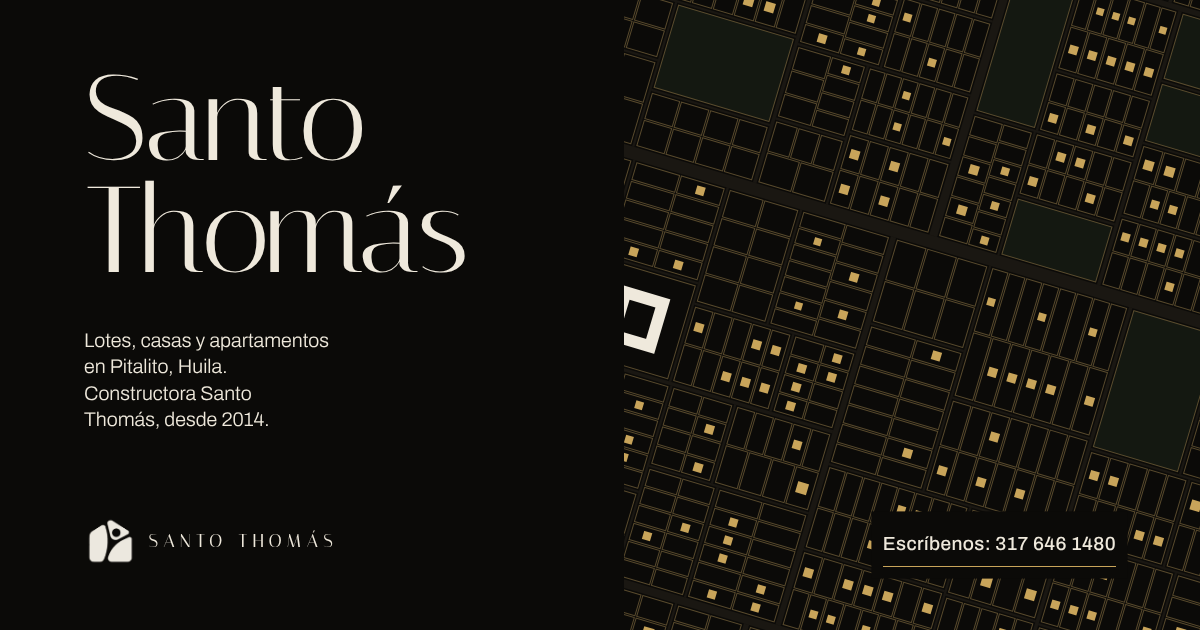
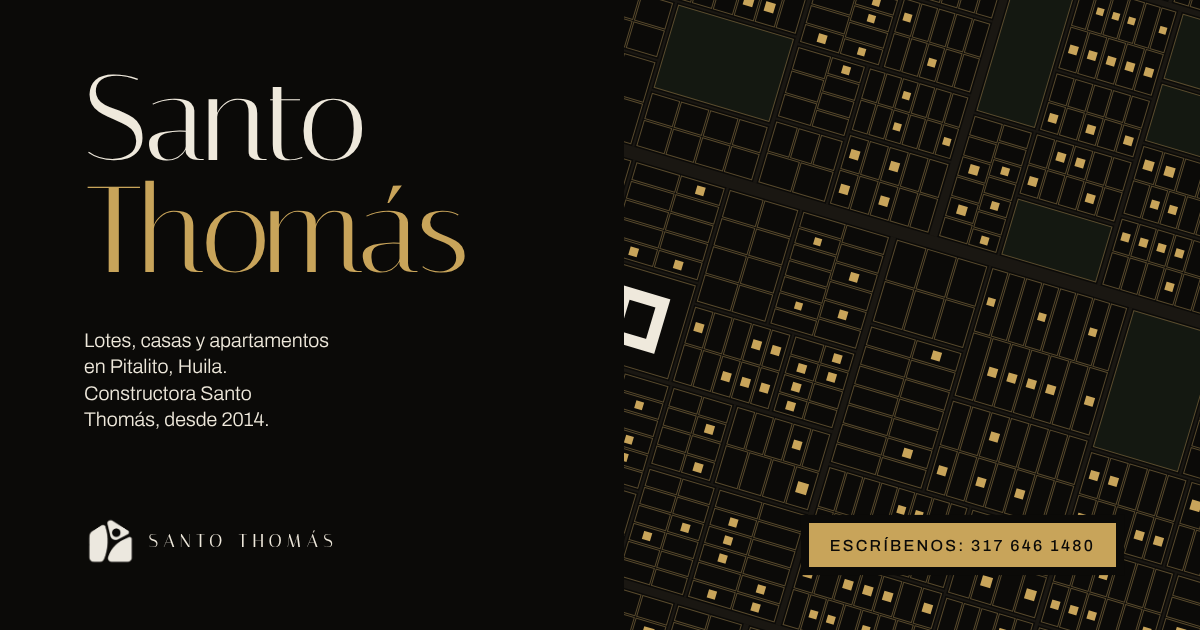
Santo Thomás page: 60-30-10 palette with gold as hero colour
Claude-Session: https://claude.ai/code/session_01EuNx7qHGaqCun31qjyEdxN

Changed region(s): [[0.0925, 0.2714, 0.4008, 0.4524], [0.6475, 0.8143, 0.9558, 0.9048]]

diff --git a/santo-thomas/index.html b/santo-thomas/index.html
@@ -80,6 +80,10 @@ em{font-style:normal;color:var(--oro)}
 .accion:hover::before,.accion:focus-visible::before{width:84px}
 .accion:hover{color:var(--oro)}
 .accion:active::before{width:96px}
+.accion.oro{background:var(--oro);color:var(--negro);padding:0 28px;min-height:54px;gap:0;transition:background .3s,transform .15s}
+.accion.oro::before{display:none}
+.accion.oro:hover{background:#d8b871;color:var(--negro)}
+.accion.oro:active{transform:translateY(2px)}
 .enlace{text-decoration:underline;text-decoration-color:var(--bronce);text-decoration-thickness:1px;text-underline-offset:5px;transition:color .25s}
 .enlace:hover{color:var(--oro)}
 
@@ -106,12 +110,13 @@ em{font-style:normal;color:var(--oro)}
 .barra ul{display:flex;gap:clamp(18px,3vw,48px)}
 .barra nav a{text-decoration:none;font-size:12px;font-weight:500;letter-spacing:.22em;text-transform:uppercase;padding:12px 0;display:block;transition:color .25s}
 .barra nav a:hover{color:var(--oro)}
-@media(max-width:899px){.barra{flex-wrap:wrap;gap:6px var(--m);padding-block:20px}.barra nav{width:100%}.barra ul{justify-content:space-between}.barra nav a{font-size:11px;letter-spacing:.16em}.barra .wa{display:none}}
+.barra .wa a{color:var(--oro)}
+@media(max-width:899px){.barra{flex-wrap:wrap;gap:6px var(--m);padding-block:20px}.barra nav{width:100%}.barra ul{justify-content:space-between}.barra nav a{font-size:11px;letter-spacing:.16em}.barra .wa,.barra .ocu{display:none}}
 
 /* Portada: dos palabras enormes que pisan las fotos */
 .portada{position:relative;min-height:max(100svh,700px);display:grid;grid-template-columns:repeat(12,minmax(0,1fr));grid-template-rows:1fr auto;column-gap:var(--m);padding:120px var(--m) clamp(28px,5vh,56px)}
-.portada h1{grid-column:1/-1;grid-row:1;align-self:center;position:relative;z-index:2;font-size:clamp(72px,15.4vw,270px);line-height:.9;letter-spacing:-.02em;pointer-events:none;mix-blend-mode:difference}
-.portada h1 .l2{padding-left:16vw}
+.portada h1{grid-column:1/-1;grid-row:1;align-self:center;position:relative;z-index:2;font-size:clamp(72px,15.4vw,270px);line-height:.9;letter-spacing:-.02em;pointer-events:none}
+.portada h1 .l2{padding-left:16vw;color:var(--oro)}
 /* El isotipo vive en la sangría de la segunda línea; el vidrio lo revela al abrir */
 .portada .sello{grid-column:1/4;grid-row:1;align-self:center;position:relative;z-index:1;width:21vw;margin-left:-3.4vw;aspect-ratio:1;transform:translateY(7.6vw);cursor:pointer}
 .portada .sello img{position:absolute;inset:0;margin:auto;width:42%;height:auto}
@@ -196,7 +201,7 @@ em{font-style:normal;color:var(--oro)}
 .laminas .cab{display:flex;justify-content:space-between;align-items:end;gap:24px;padding-bottom:28px}
 .lamina{display:grid;gap:28px;padding-block:44px}
 .lamina .foto{aspect-ratio:4/3}
-.lamina .num{font-family:var(--serif);font-size:clamp(90px,15vw,250px);line-height:.8;letter-spacing:-.02em;color:var(--bronce)}
+.lamina .num{font-family:var(--serif);font-size:clamp(90px,15vw,250px);line-height:.8;letter-spacing:-.02em;color:var(--oro)}
 .lamina .txt{display:grid;gap:24px;justify-items:start;align-content:end}
 .lamina h3{font-size:clamp(40px,5.2vw,88px)}
 .lamina .txt p:not(.decl){max-width:40ch}
@@ -245,7 +250,7 @@ em{font-style:normal;color:var(--oro)}
 .opciones label::after{content:"";width:8px;height:8px;border-radius:50%;background:var(--oro);opacity:0;transform:scale(.3);transition:opacity .3s,transform .5s var(--salir);flex:none;align-self:center}
 .opciones label:hover{color:var(--marfil)}
 .opciones input{position:absolute;opacity:0;pointer-events:none}
-.opciones label:has(input:checked){color:var(--marfil);padding-left:18px}
+.opciones label:has(input:checked){color:var(--oro);padding-left:18px}
 .opciones label:has(input:checked)::after{opacity:1;transform:none}
 .opciones label:has(input:focus-visible){outline:1px solid var(--oro);outline-offset:4px}
 .plano{position:relative;aspect-ratio:4/3}
@@ -259,8 +264,9 @@ em{font-style:normal;color:var(--oro)}
 .empresa .txt{display:grid;gap:28px;justify-items:start;align-content:start}
 .empresa .foto{aspect-ratio:4/5;background:var(--marfil-2)}
 @media(min-width:900px){.empresa{grid-template-columns:repeat(12,minmax(0,1fr));column-gap:var(--m)}.empresa .txt{grid-column:1/8}.empresa .foto{grid-column:9/13;margin-top:10vw}}
-.cifras{display:grid;gap:28px;padding-top:clamp(56px,8vw,120px)}
-.cifras div{display:grid;gap:10px;padding-top:22px;border-top:1px solid rgba(11,10,8,.2)}
+.cifras{display:grid;gap:28px;background:var(--oro);color:var(--negro);margin:clamp(56px,8vw,120px) calc(var(--m)*-1) calc(var(--seccion)*-1);padding:clamp(48px,6vw,96px) var(--m)}
+.cifras .rot{color:rgba(11,10,8,.72)}
+.cifras div{display:grid;gap:10px;padding-top:22px;border-top:1px solid rgba(11,10,8,.35)}
 .cifras b{font-family:var(--serif);font-weight:400;font-size:clamp(64px,9vw,150px);line-height:.86;letter-spacing:-.01em;font-variant-numeric:lining-nums}
 @media(min-width:700px){.cifras{grid-template-columns:repeat(3,minmax(0,1fr));column-gap:var(--m)}}
 .preg{display:grid;gap:clamp(28px,4vw,64px)}
@@ -275,16 +281,22 @@ em{font-style:normal;color:var(--oro)}
 .preg details p{padding:0 0 24px;max-width:52ch}
 
 /* Cierre */
-.cierre{padding-top:var(--seccion);overflow:hidden}
+.cierre{overflow:hidden}
+.cierre .campo{background:var(--oro);color:var(--negro);padding-top:clamp(72px,10vw,150px)}
+.cierre .campo .rot{color:rgba(11,10,8,.72)}
+.cierre .campo .enlace{text-decoration-color:rgba(11,10,8,.5)}
+.cierre .campo .enlace:hover{color:var(--negro);text-decoration-color:var(--negro)}
+.cierre .campo .accion.oro{background:var(--negro);color:var(--marfil)}
+.cierre .campo .accion.oro:hover{background:#1c1914;color:var(--marfil)}
 .cierre .datos{display:grid;gap:clamp(32px,5vw,80px);padding-bottom:clamp(64px,9vw,140px)}
 @media(min-width:900px){.cierre .datos{grid-template-columns:repeat(12,minmax(0,1fr));column-gap:var(--m);align-items:end}.cierre .datos > div{grid-column:1/8}.cierre address{grid-column:9/13}}
-.cierre .tel{font-family:var(--serif);font-size:clamp(48px,8vw,132px);letter-spacing:0;line-height:.9;text-decoration:none;display:inline-block;margin-block:22px 30px;transition:color .25s}
-.cierre .tel:hover{color:var(--oro)}
+.cierre .tel{font-family:var(--serif);font-size:clamp(48px,8vw,132px);letter-spacing:0;color:var(--negro);line-height:.9;text-decoration:none;display:inline-block;margin-block:22px 30px;transition:color .25s}
+.cierre .tel:hover{color:#3a2f17}
 .cierre address{font-style:normal;display:grid;gap:16px;justify-items:start}
-.cierre .firma{font-family:var(--serif);font-size:15vw;line-height:.86;letter-spacing:-.015em;white-space:nowrap;text-align:center;color:var(--carbon-2);padding-bottom:.06em;user-select:none}
+.cierre .firma{padding-top:clamp(48px,7vw,100px);font-family:var(--serif);font-size:15vw;line-height:.86;letter-spacing:-.015em;white-space:nowrap;text-align:center;color:var(--carbon-2);padding-bottom:.06em;user-select:none}
 .cierre .pie{padding:22px var(--m);border-top:1px solid var(--linea);display:flex;flex-wrap:wrap;gap:8px 24px;justify-content:space-between}
 
-.flota{position:fixed;left:0;right:0;bottom:0;z-index:14;display:none;justify-content:center;padding:14px var(--m) calc(14px + env(safe-area-inset-bottom));background:var(--negro);border-top:1px solid var(--linea);text-decoration:none;font-size:11px;font-weight:500;letter-spacing:.24em;text-transform:uppercase}
+.flota{position:fixed;left:0;right:0;bottom:0;z-index:14;display:none;justify-content:center;padding:14px var(--m) calc(14px + env(safe-area-inset-bottom));background:var(--oro);color:var(--negro);text-decoration:none;font-size:11px;font-weight:600;letter-spacing:.24em;text-transform:uppercase}
 @media(max-width:899px){.flota{display:flex}body{padding-bottom:52px}}
 </style>
 <script>document.documentElement.classList.add('js')</script>
@@ -301,7 +313,7 @@ em{font-style:normal;color:var(--oro)}
       <li><a href="#empresa">Historia</a></li>
       <li><a href="#ubicacion">Ubicación</a></li>
       <li><a href="#proyectos">Proyectos</a></li>
-      <li class="wa"><a href="#obra">Obra</a></li>
+      <li class="ocu"><a href="#obra">Obra</a></li>
       <li><a href="#contacto">Contacto</a></li>
       <li class="wa"><a href="https://wa.me/573176461480?text=Hola%2C%20quiero%20informaci%C3%B3n%20sobre%20los%20proyectos%20de%20Constructora%20Santo%20Thom%C3%A1s.">WhatsApp</a></li>
     </ul>
@@ -319,7 +331,7 @@ em{font-style:normal;color:var(--oro)}
   <div class="pie">
     <div class="apoyo">
       <p data-sube style="--i:4">Lotes, casas y apartamentos en Pitalito. Constructora Santo Thomás urbaniza y construye en el sur del Huila desde 2014.</p>
-      <a class="accion" data-sube style="--i:5" href="#proyectos">Ver los proyectos</a>
+      <a class="accion oro" data-sube style="--i:5" href="#proyectos">Ver los proyectos</a>
     </div>
     <p class="rot coord" data-sube style="--i:5">Pitalito, Huila<br><b>Valle de Laboyos</b></p>
   </div>
@@ -391,7 +403,7 @@ em{font-style:normal;color:var(--oro)}
             <h3>Santo Thomás <em>Urbanismo</em></h3>
             <p>Lotes residenciales y comerciales en Pitalito, con vías, conexión a servicios públicos y zonas verdes.</p>
             <dl class="ficha"><dt>Tipo</dt><dd>Lotes residenciales y comerciales</dd><dt>Lugar</dt><dd>Pitalito, Huila</dd></dl>
-            <a class="accion" href="https://wa.me/573176461480?text=Hola%2C%20quiero%20conocer%20los%20lotes%20disponibles%20en%20Santo%20Thom%C3%A1s%20Urbanismo.">Pedir áreas y precios</a>
+            <a class="accion oro" href="https://wa.me/573176461480?text=Hola%2C%20quiero%20conocer%20los%20lotes%20disponibles%20en%20Santo%20Thom%C3%A1s%20Urbanismo.">Pedir áreas y precios</a>
           </div>
         </div>
       </article>
@@ -404,7 +416,7 @@ em{font-style:normal;color:var(--oro)}
             <h3>Torre <em>Santo Thomás</em></h3>
             <p>Apartamentos sobre una plataforma de locales comerciales. Las imágenes son renders: muestran el diseño, no la obra terminada.</p>
             <dl class="ficha"><dt>Tipo</dt><dd>Apartamentos y locales</dd><dt>Lugar</dt><dd>Pitalito, Huila</dd></dl>
-            <a class="accion" href="https://wa.me/573176461480?text=Hola%2C%20quiero%20informaci%C3%B3n%20sobre%20la%20Torre%20Santo%20Thom%C3%A1s.">Pedir planos de la torre</a>
+            <a class="accion oro" href="https://wa.me/573176461480?text=Hola%2C%20quiero%20informaci%C3%B3n%20sobre%20la%20Torre%20Santo%20Thom%C3%A1s.">Pedir planos de la torre</a>
           </div>
         </div>
       </article>
@@ -417,7 +429,7 @@ em{font-style:normal;color:var(--oro)}
             <h3>Casas <em>y edificios</em></h3>
             <p>Casas de uno y dos pisos en Pitalito, y edificios de apartamentos con locales en el primer piso.</p>
             <dl class="ficha"><dt>Tipo</dt><dd>Vivienda de uno a cuatro pisos</dd><dt>Lugar</dt><dd>Pitalito, Huila</dd></dl>
-            <a class="accion" href="https://wa.me/573176461480?text=Hola%2C%20quiero%20informaci%C3%B3n%20sobre%20las%20casas%20de%20Constructora%20Santo%20Thom%C3%A1s.">Preguntar por casas</a>
+            <a class="accion oro" href="https://wa.me/573176461480?text=Hola%2C%20quiero%20informaci%C3%B3n%20sobre%20las%20casas%20de%20Constructora%20Santo%20Thom%C3%A1s.">Preguntar por casas</a>
           </div>
         </div>
       </article>
@@ -473,7 +485,7 @@ em{font-style:normal;color:var(--oro)}
         <label><span><input type="radio" name="tipo" value="torre">Apartamento</span></label>
       </div>
       <input type="hidden" name="text" id="busca-texto" value="Hola, estoy buscando un lote residencial en Pitalito. ¿Qué tienen disponible?">
-      <button class="accion" type="submit" data-sube style="--i:3" id="busca-btn">Preguntar por lotes residenciales</button>
+      <button class="accion oro" type="submit" data-sube style="--i:3" id="busca-btn">Preguntar por lotes residenciales</button>
     </form>
     <div data-sube style="--i:2">
       <div class="plano"><canvas id="plano" role="img" aria-label="Plano ilustrativo de una urbanización que resalta el tipo de inmueble elegido."></canvas></div>
@@ -496,18 +508,18 @@ em{font-style:normal;color:var(--oro)}
 </main>
 
 <footer class="cierre" id="contacto">
-  <div class="wrap datos" data-grupo>
+  <div class="campo"><div class="wrap datos" data-grupo>
     <div>
       <p class="rot" data-sube>Contacto</p>
       <a class="tel" data-sube style="--i:1" href="tel:+573176461480">317 646 1480</a><br>
-      <a class="accion" data-sube style="--i:2" href="https://wa.me/573176461480?text=Hola%2C%20quiero%20informaci%C3%B3n%20sobre%20los%20proyectos%20de%20Constructora%20Santo%20Thom%C3%A1s.">Escribir por WhatsApp</a>
+      <a class="accion oro" data-sube style="--i:2" href="https://wa.me/573176461480?text=Hola%2C%20quiero%20informaci%C3%B3n%20sobre%20los%20proyectos%20de%20Constructora%20Santo%20Thom%C3%A1s.">Escribir por WhatsApp</a>
     </div>
     <address data-sube style="--i:2">
       <span>Carrera 15 No. 19A-01 Sur, local 148<br>Centro Comercial Gran Plaza San Antonio<br>Pitalito, Huila</span>
       <a class="enlace" href="mailto:2019urbanizacionsantothomas@gmail.com?subject=Informaci%C3%B3n%20de%20proyectos">2019urbanizacionsantothomas@gmail.com</a>
       <a class="enlace" href="https://www.instagram.com/constructorasantothomas" rel="noopener">Instagram: @constructorasantothomas</a>
     </address>
-  </div>
+  </div></div>
   <p class="firma" aria-hidden="true">Santo Thomás</p>
   <div class="pie nota">
     <span>© 2026 Constructora Santo Thomás. Pitalito, Huila, Colombia.</span>

diff --git a/santo-thomas/banners/banners.html b/santo-thomas/banners/banners.html
@@ -16,7 +16,7 @@ h1{font-family:'Italiana',serif;font-weight:400;letter-spacing:-.015em;line-heig
 .fila{display:flex;align-items:flex-end;justify-content:space-between;gap:4cqw}
 .marca{display:flex;align-items:center;gap:calc(var(--u)*2);font-family:'Italiana',serif;font-weight:400;font-size:max(16px,calc(var(--u)*3.2));letter-spacing:.28em;text-transform:uppercase}
 .marca img{height:calc(var(--u)*9);width:auto}
-.cta{color:var(--cal);font-weight:500;letter-spacing:.02em;font-size:max(16px,calc(var(--u)*3.3));min-height:44px;display:flex;align-items:center;white-space:nowrap;background:linear-gradient(var(--oro),var(--oro)) left bottom/100% max(1px,calc(var(--u)*.25)) no-repeat;padding:0 0 calc(var(--u)*.6)}
+.cta{background:var(--oro);color:var(--tinta);font-weight:500;letter-spacing:.14em;text-transform:uppercase;font-size:max(16px,calc(var(--u)*2.5));min-height:44px;padding:calc(var(--u)*2.2) calc(var(--u)*3.6);display:flex;align-items:center;white-space:nowrap}
 /* A · Foto */
 .foto{background:var(--tinta)}
 .foto .img{position:absolute;inset:0;background:url(../img/aerea-loteo.webp) 50% 55%/cover}
@@ -31,11 +31,11 @@ h1{font-family:'Italiana',serif;font-weight:400;letter-spacing:-.015em;line-heig
 .loteo .panel{position:absolute;left:0;top:0;bottom:0;width:var(--panel);background:var(--campo-osc)}
 .loteo.alto .panel{width:100%;height:56%;bottom:auto}
 .loteo.alto .marca{background:var(--campo-osc);padding:calc(var(--u)*2) calc(var(--u)*3);margin-left:calc(var(--u)*-3)}
-.loteo .cta{background-color:var(--campo-osc);box-shadow:0 0 0 calc(var(--u)*2) var(--campo-osc)}
+.loteo .cta{box-shadow:0 0 0 calc(var(--u)*1.4) var(--campo-osc)}
 .loteo h1,.loteo .sub{max-width:7ch}.loteo .sub{max-width:22ch}
 .ancho h1,.tipografia.ancho h1{max-width:16ch;font-size:calc(var(--u)*19)}
 .ancho .sub{margin-top:calc(var(--u)*5);max-width:44ch}
-h1 em{font-style:normal}
+h1 em{font-style:normal;color:var(--oro)}
 .sub{font-weight:300}
 </style>
 </head>
